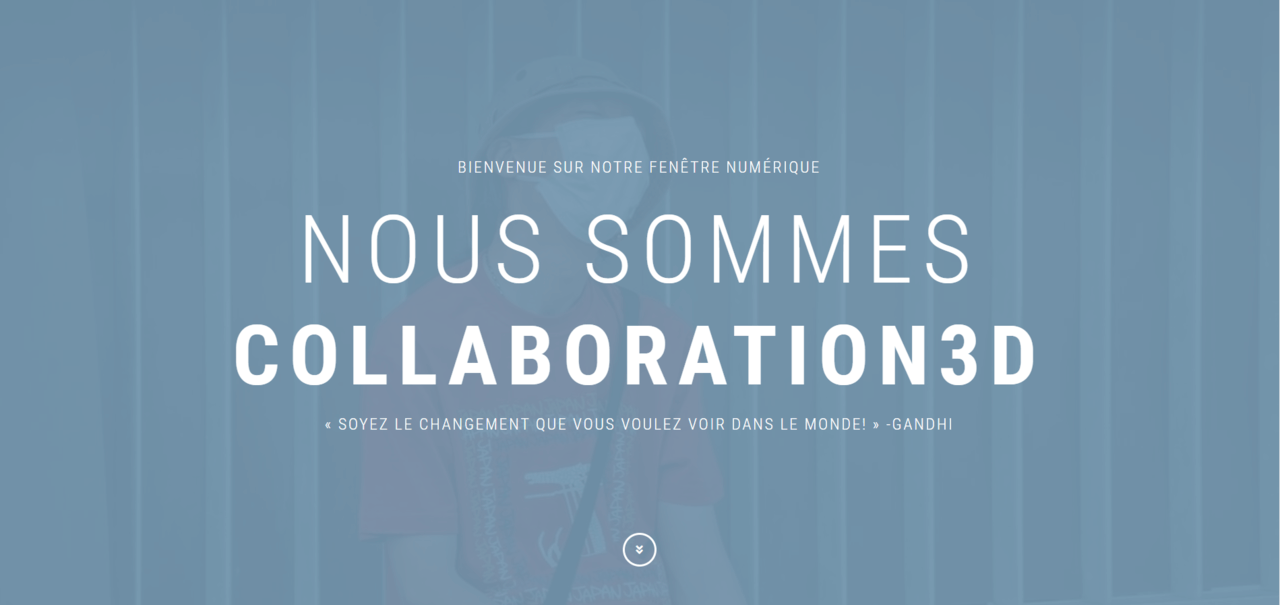
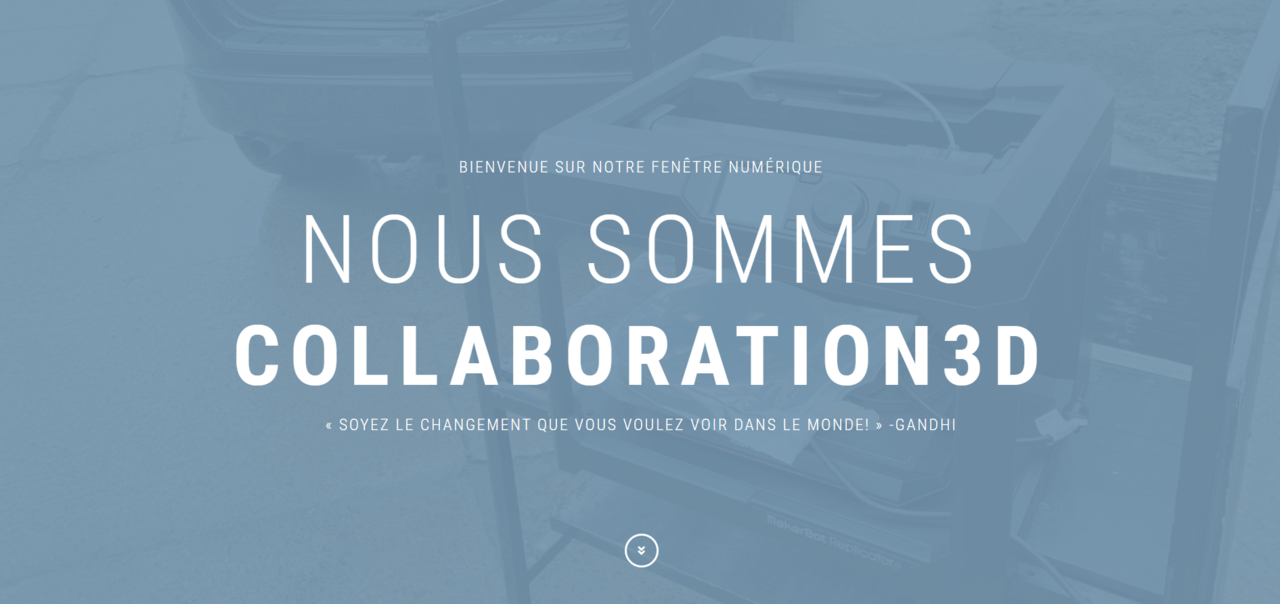
thumbnail update

diff --git a/public/index.html b/public/index.html
@@ -55,7 +55,7 @@
 <body>
 
   <!-- Hero Section-->
-  <section id="intro" style="background: url(img/guy.jpg)" class="hero bg-cover">
+  <section id="intro" style="background: url(img/makerbotOutside.jpg)" class="hero bg-cover">
     <div class="overlay"></div>
     <div class="content h-100 d-flex align-items-center">
 
@@ -82,16 +82,18 @@
 
   <!-- navbar-->
   <header class="header sticky-top">
-    <nav class="navbar navbar-expand-lg bg-white border-bottom py-0">
+    <nav class="navbar navbar-expand-lg navbar-light bg-white border-bottom py-0">
       <div class="container">
         <a href="#about" class="navbar-brand py-1 link-scroll">
           <div style="margin: 0.7em">
             <img src="img/logo.png" alt="" class="img-fluid">
           </div>
         </a>
+
         <button type="button" data-toggle="collapse" data-target="#navbarSupportedContent"
           aria-controls="navbarSupportedContent" aria-expanded="false" aria-label="Toggle navigation"
-          class="navbar-toggler navbar-toggler-right"><span class="fas fa-bars"></span></button>
+          class="navbar-toggler navbar-toggler-right"><span class="fas fa-bars hovery"></span></button>
+
         <div id="navbarSupportedContent" class="collapse navbar-collapse">
           <ul class="navbar-nav ml-auto px-3">
 
@@ -101,7 +103,7 @@
             <li class="nav-item"><a href="#divers" class="nav-link text-uppercase link-scroll centre"
                 lang="fr">Nos collaborateurs</a></li>
             <li class="nav-item"><a href="#divers" class="nav-link text-uppercase link-scroll centre"
-                lang="en">Various</a></li>
+                lang="en">Our collaborators</a></li>
 
             <li class="nav-item"><a href="#help" class="nav-link text-uppercase link-scroll centre" lang="fr">Faites la
                 différence</a>
@@ -119,9 +121,9 @@
             <li class="nav-item">
 
               <div class="d-none d-lg-block">
-                <button class="btn link-scroll" onclick="toggleLanguage('Français')" lang="en"><img
+                <button class="btn link-scroll flaggy" onclick="toggleLanguage('Français')" lang="en"><img
                     src="img/france.png"></button>
-                <button class="btn link-scroll" onclick="toggleLanguage('English')" lang="fr"><img
+                <button class="btn link-scroll flaggy" onclick="toggleLanguage('English')" lang="fr"><img
                     src="img/uk.png"></button>
               </div>
 
@@ -204,7 +206,7 @@
 
           <!--Mask color-->
           <div class="view">
-            <img class="d-block w-100" src="img/ender3.jpg" alt="First slide">
+            <img class="d-block w-100" src="img/oliGrandpa.jpg" alt="First slide">
             <div class="mask rgba-black-light"></div>
           </div>
           <div class="carousel-caption pb-5">

diff --git a/public/css/style.default.css b/public/css/style.default.css
@@ -61,9 +61,8 @@ section {
   outline: none !important;
 }
 
-.navbar-toggler:hover, .navbar-toggler:focus {
-  color: #7395AE;
-  color: #fff;
+.hovery:hover, .hovery:focus {
+  color: #495057;
 }
 
 /*
@@ -271,8 +270,8 @@ STYLE SWITCHER FOR DEMO
 .navbar-toggler {
   padding: 0.25rem 0.75rem;
   font-size: 1.125rem;
-  line-height: 1;
-  border: 1px solid transparent;
+  line-height: 0;
+  border: 0px solid transparent;
   border-radius: 0;
 }
 
@@ -281,7 +280,7 @@ STYLE SWITCHER FOR DEMO
 }
 
 .navbar-light .navbar-brand:hover, .navbar-light .navbar-brand:focus {
-  color: rgba(0, 0, 0, 0.9);
+  color:  #7395AE;
 }
 
 .navbar-light .navbar-nav .nav-link {
@@ -304,9 +303,8 @@ STYLE SWITCHER FOR DEMO
   color: rgba(0, 0, 0, 0.9);
 }
 
-.navbar-light .navbar-toggler {
-  color: rgba(0, 0, 0, 0.5);
-  border-color: rgba(0, 0, 0, 0.1);
+.navbar .navbar-toggler {
+  color: rgba(73, 80, 87, 0.5);
 }
 
 .navbar-light .navbar-toggler-icon {

diff --git a/public/css/custom.css b/public/css/custom.css
@@ -93,3 +93,7 @@ footer.footer .social-link:hover {
 .testy {
   font-size: 88%;
 }
+
+.flaggy:hover, .flaggy:focus {
+  transform: scale(1.05);
+}
